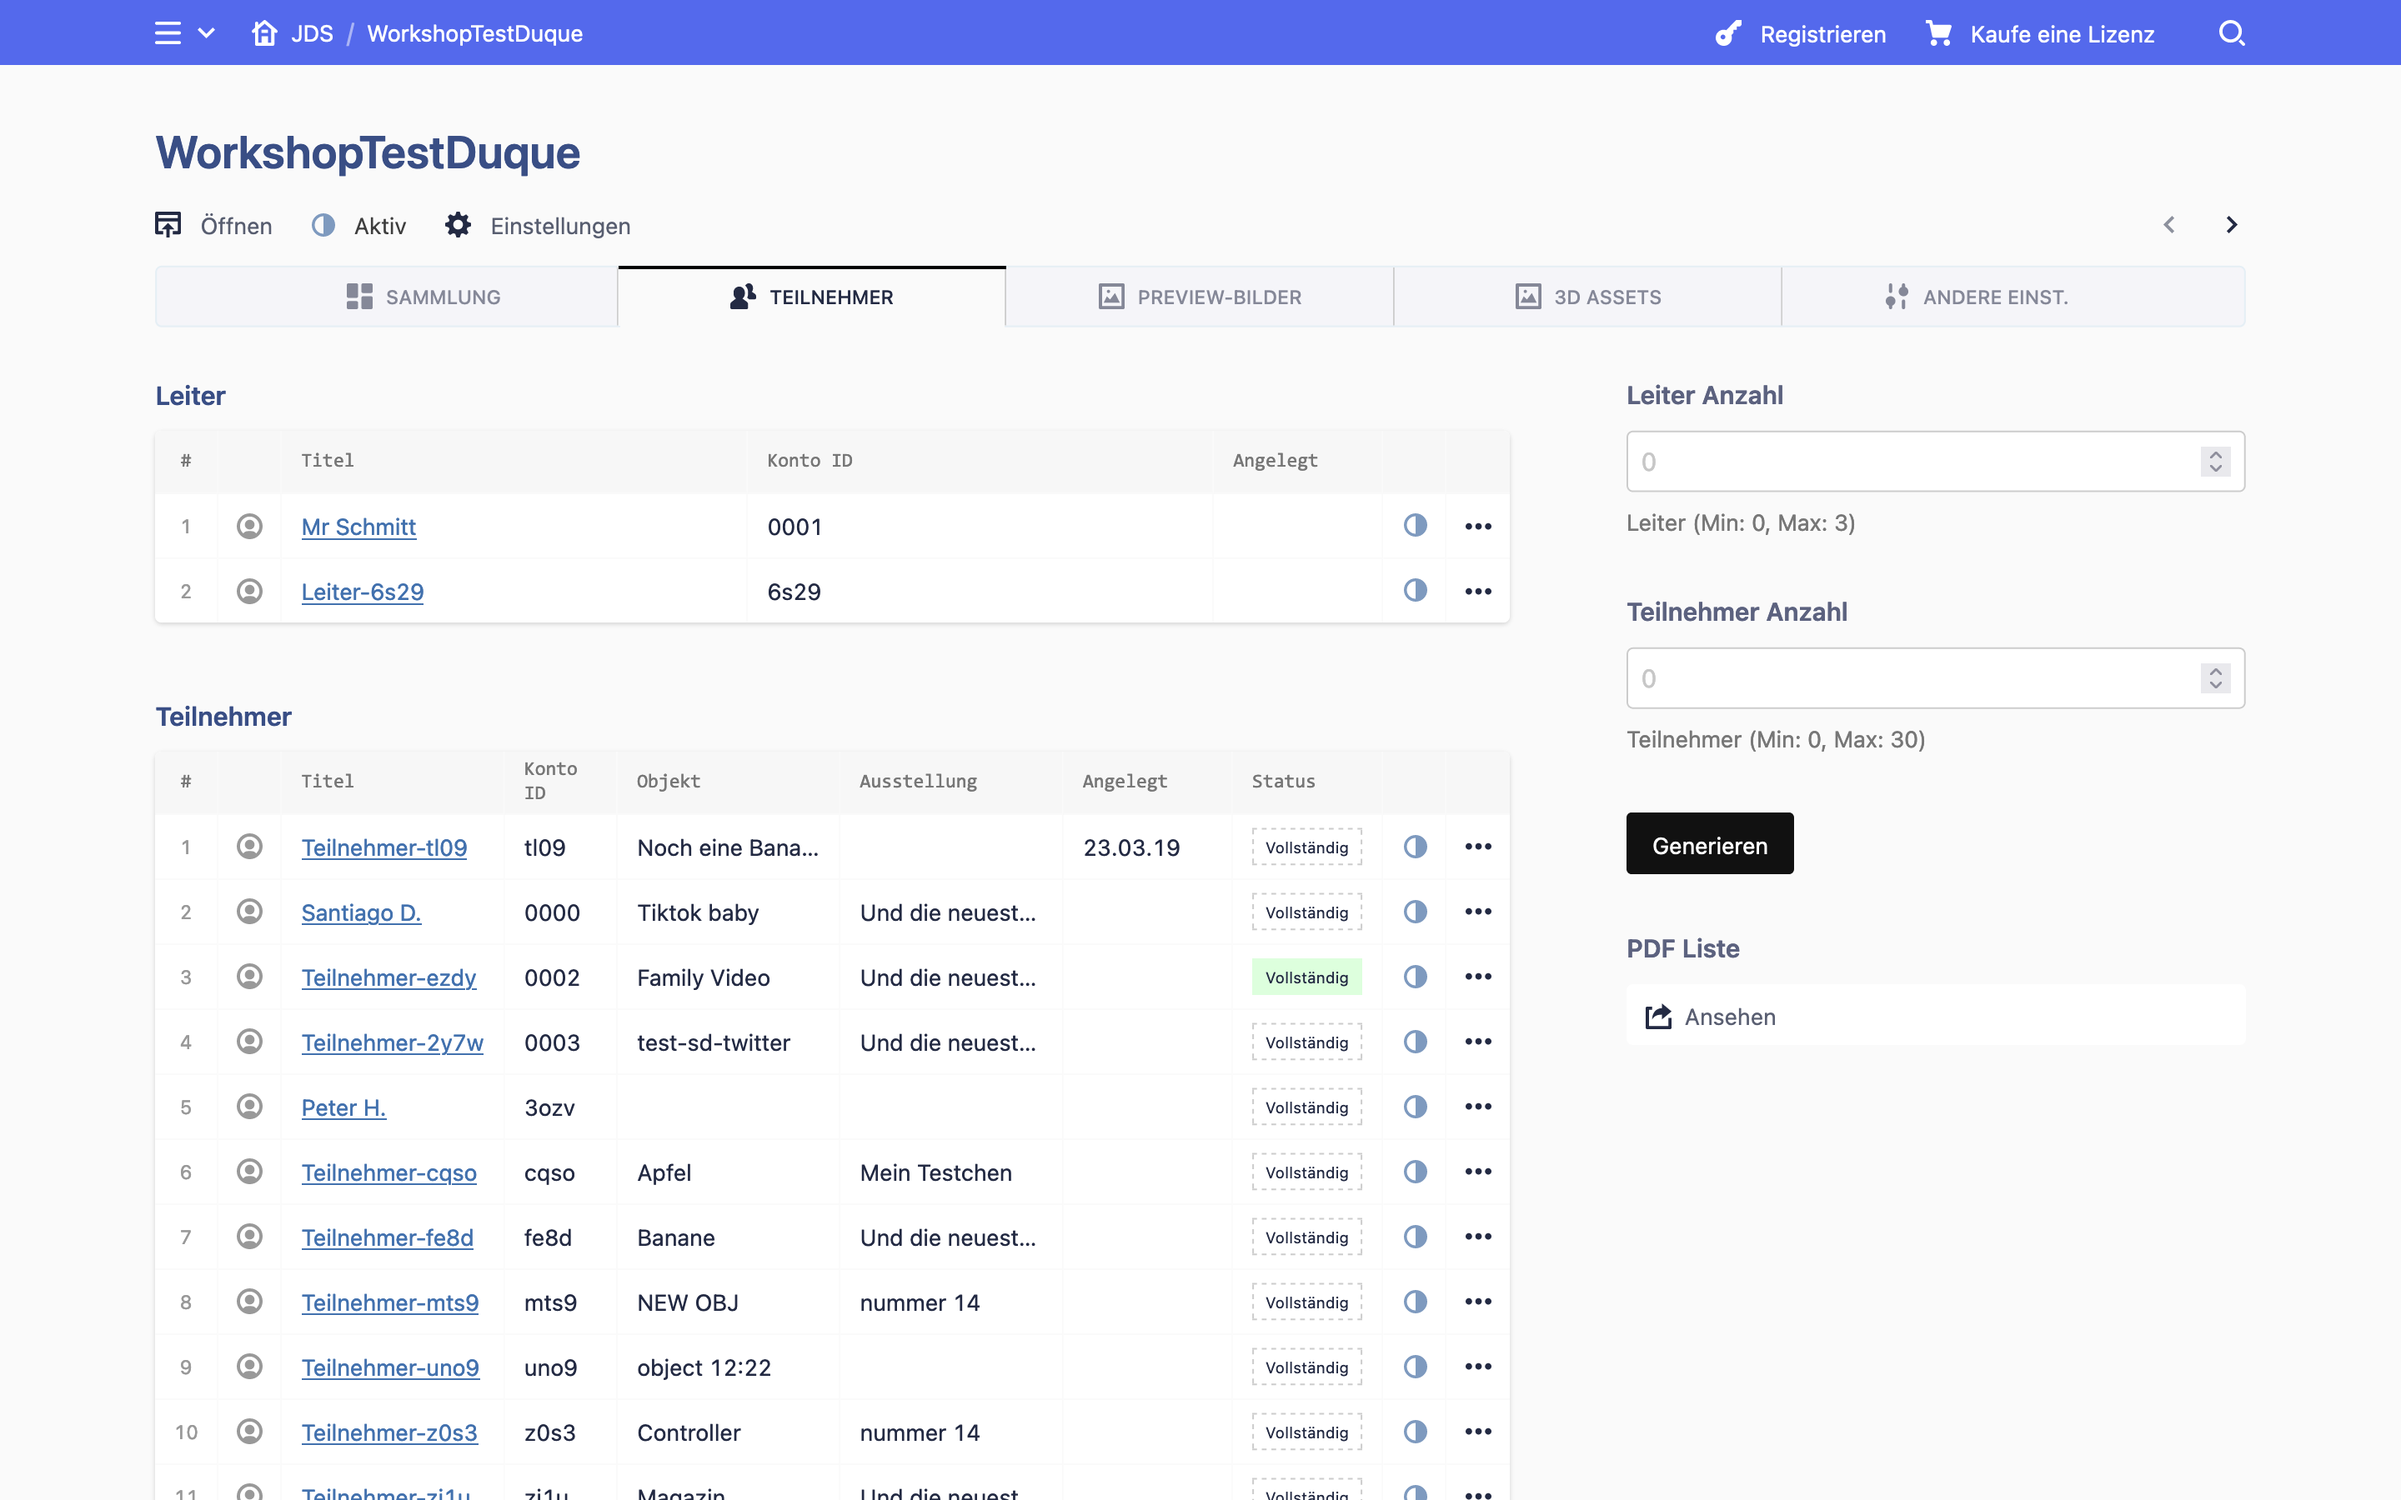
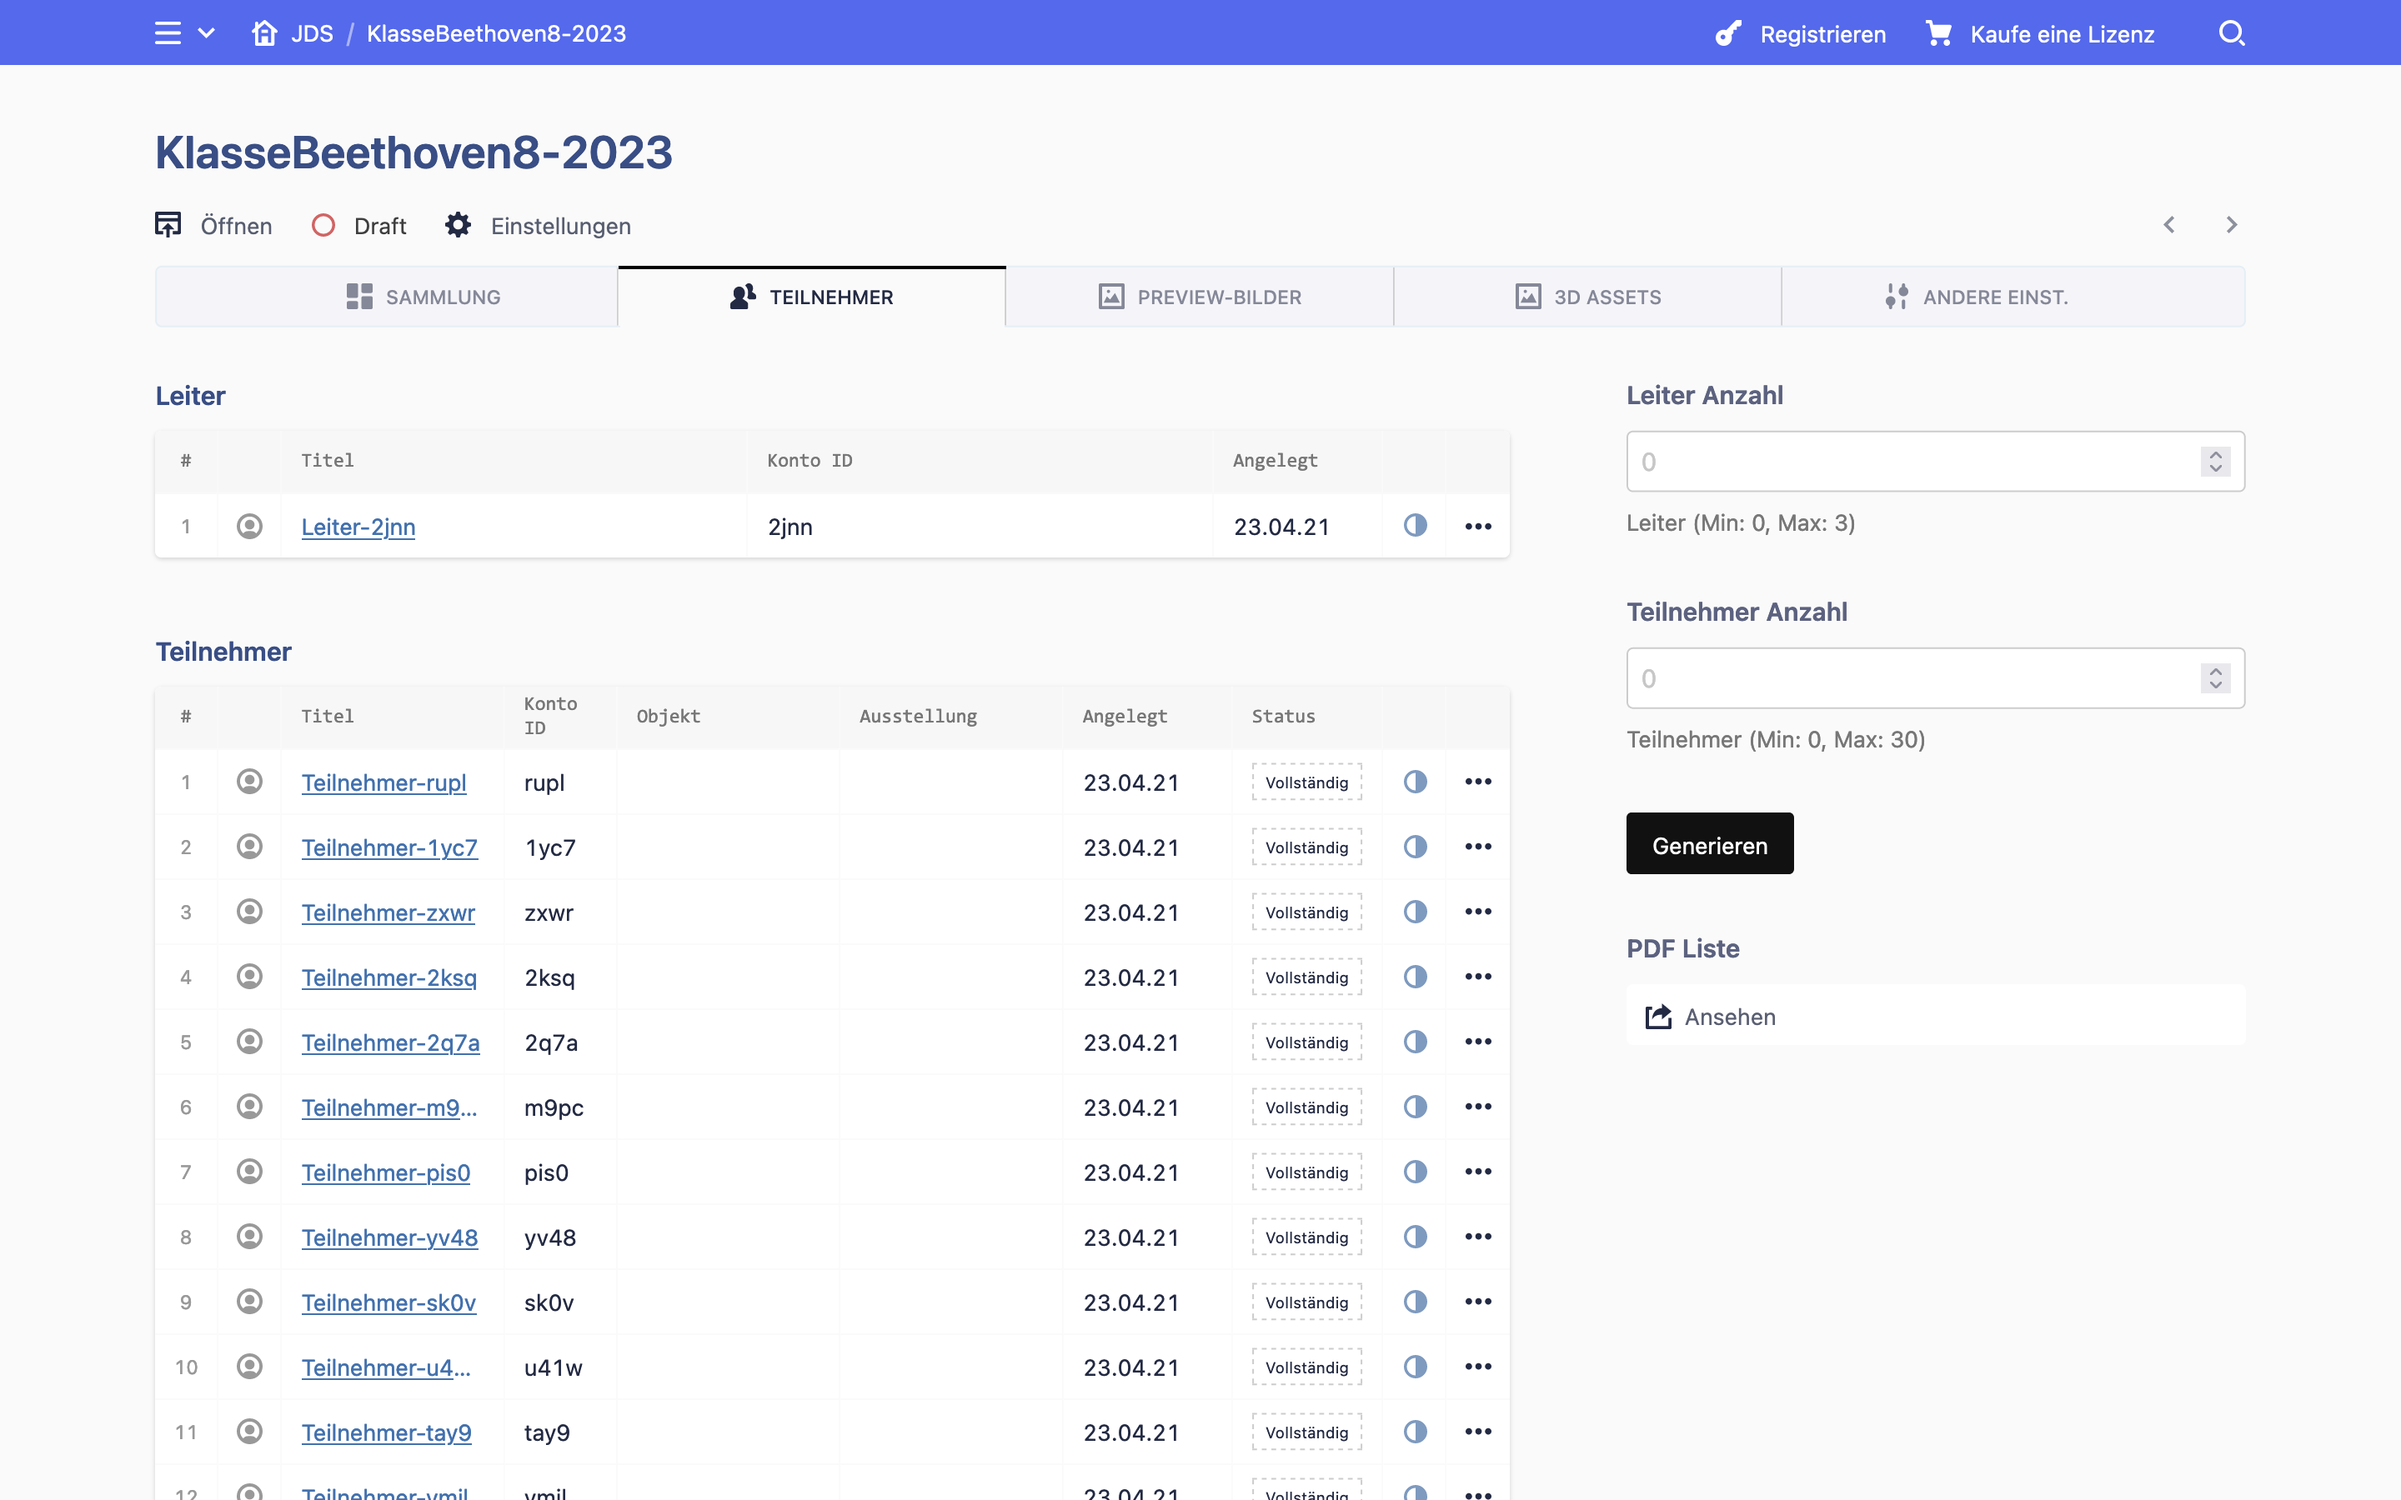
docs and images

diff --git a/docs/README.md b/docs/README.md
@@ -155,23 +155,35 @@ Menü oben links |  Übersicht Temp Users  |  Konto anlegen
 :-------------------------:|:-------------------------:|:-------------------------:
 ![](_media/admin/panel-menu.png)  |  ![](_media/admin/users/tempusers-paneloverview.png)  |  ![](_media/admin/users/tempusers-anlegen.png) 
 
-Der Standardwert für die Gültigkeit eines Kontos ist 30 Tage. Er kann im Admin-Bereich aber jederzeit angepasst werden. Das System wird auch 
+Der Standardwert für die Gültigkeit eines Kontos ist 30 Tage. Er kann zurzeit leider nur im Code verändert werden (www/site/blueprints/users/frontenduser.yml). Die Gültigkeit an sich kann aber nach dem Anlegen beliebig angepasst werden. Nachdem ein Konto nicht mehr aktiv ist wird es nach einer gewissen Zeit gelöscht. Der Standardwert dafür sind 40 Tage; dieser Wert kann im Admin-Bereich eingestellt werden.
 
 Details Gruppen-Konto |  
 :-------------------------:|
 ![](_media/admin/users/tempusers-eigenschaften.png) |  
 
 
-Im Anschluss muss der/die Mitarbeiter:in ein Workshop anlegen. Dafür oben links im Menü zurück zu "Site" navigieren. Hier auf der Hauptansicht des Admin-Bereiches werden die Workshops aufgelistet. Einfach auf "Hinzufügen" klicken und einen passenden Name ()
+Im Anschluss muss der/die Mitarbeiter:in ein Workshop anlegen. Dafür oben links im Menü zurück zu "Site" navigieren. Hier auf der Hauptansicht des Admin-Bereiches werden die Workshops aufgelistet. Einfach auf "Hinzufügen" klicken und einen sinnvollen passenden Name (z.B. KlasseBeethoven8-2023) eingeben und den Workshop anlegen. Bitte bei der Benennung dabei denken, dass Workshops voraussichtlich nicht gelöscht werden. Dementsprechend wurde in diesem Beispiel ein Suffix 2023 hinzugefügt. So kann man die Workshops auf der Liste nach einigen Jahren trotzdem noch gut identifizieren. Die genaue Systematik wird aber Ihnen überlassen.
 
-Menü oben links |  Übersicht Temp Users  |  Konto anlegen
+Auf der Workshop-Seite bitte die Institution eingeben, und einen Benutzer (hier: das neu erstellte Gruppen-Konto von vorhin) auswählen. Diese sind Pflichtfelder. 
+
+*Hinweis: auch in der Ansicht eines Temp-Users kann die Beziehung Workshop-Gruppenkonto verändert werden.*
+
+Menü oben links |  Übersicht Workshops  |  Workshop anlegen
 :-------------------------:|:-------------------------:|:-------------------------:
-![](_media/admin/panel-menu.png)  |  ![](_media/admin/users/tempusers-paneloverview.png)  |  ![](_media/admin/users/tempusers-anlegen.png) 
+![](_media/admin/users/tempusers-eigenschaften-menu%20open.png)  |  ![](_media/admin/panel-intro.png)  |  ![](_media/admin/panel-ws-anlegen.png) 
+
+Workshop-Seite |  
+:-------------------------:|
+![](_media/admin/ws/ws-empty.png) |  
 
 
 ### 3) Mitarbeiter:in legt XY Teilnehmer und XZ Leiter Subkonten im Workshop-Raum an. Subkonten werden durch Seiten im System repräsentiert.
 
+Im Reiter "Teilnehmer" können nun Leiter- und Teilnehmerkonten (bzw. Subkonten in Form von Unterseiten) generiert werden. Dazu 
 
+Reiter "Teilnehmer" |  Subkonten generieren  |  Subkonten Überblick
+:-------------------------:|:-------------------------:|:-------------------------:
+![](_media/admin/ws/ws-tab-users-empty.png)  |  ![](_media/admin/ws/ws-tab-users-generating.png)  |  ![](_media/admin/ws/ws-tab-users.png) 
 
 ### 4) Mitarbeiter:in ruft PDF-Übersicht der Teilnehmer auf. Hier werden alle Subkonten aufgelistet und zwar ein Teilnehmer pro PDF Seite. Jede Seite beinhaltet eine ID und den Login-Pfad für die Gruppe.
 ### 5) Mitarbeiter:in übergibt die a) Zugangsdaten des Gruppenkontos, b) Leiter IDs und c) PDF mit Teilnehmer IDs an die Leiter der Gruppe. Zugangsdaten und Leiter IDs werden getrennt und nicht in der PDF geliefert um zu vermeiden, dass diese Informationen nicht für alle Teilnehmer:innen zugänglich sind.

diff --git a/README.md b/README.md
@@ -1,16 +1,16 @@
 # Junge Digitale Sammlung 
 
 ## Inhaltsverzeichnis
-1. Kurzbeschreibung
-2. Finanzierung
-3. Empfohlenes Server Setup 
-4. Voraussetzungen und Skills
-5. Installation der Platform (deploy) 
-6. Entwicklung
-7. Benutzung/Usage
-8. Beteiligung/Contributing
-9. Credits
-10. Lizenz
+1. [Kurzbeschreibung](#1-kurzbeschreibung)
+2. [Finanzierung](#2-finanzierung)
+3. [Empfohlenes Server Setup](#3-empfohlenes-server-setup)
+4. [Voraussetzungen und Skills](#4-voraussetzungen-und-skills)
+5. [Installation der Platform (deploy)](#5-installation-der-platform-deploy)
+6. [Entwicklung](#6-entwicklung-der-platform)
+7. [Benutzung/Usage](#7-benutzungusage)
+8. [Beteiligung/Contributing](#8-beteiligungcontributing)
+9. [Credits](#9-credits)
+10. [Lizenz](#10-lizenz)
 
 
 ## 1. Kurzbeschreibung
